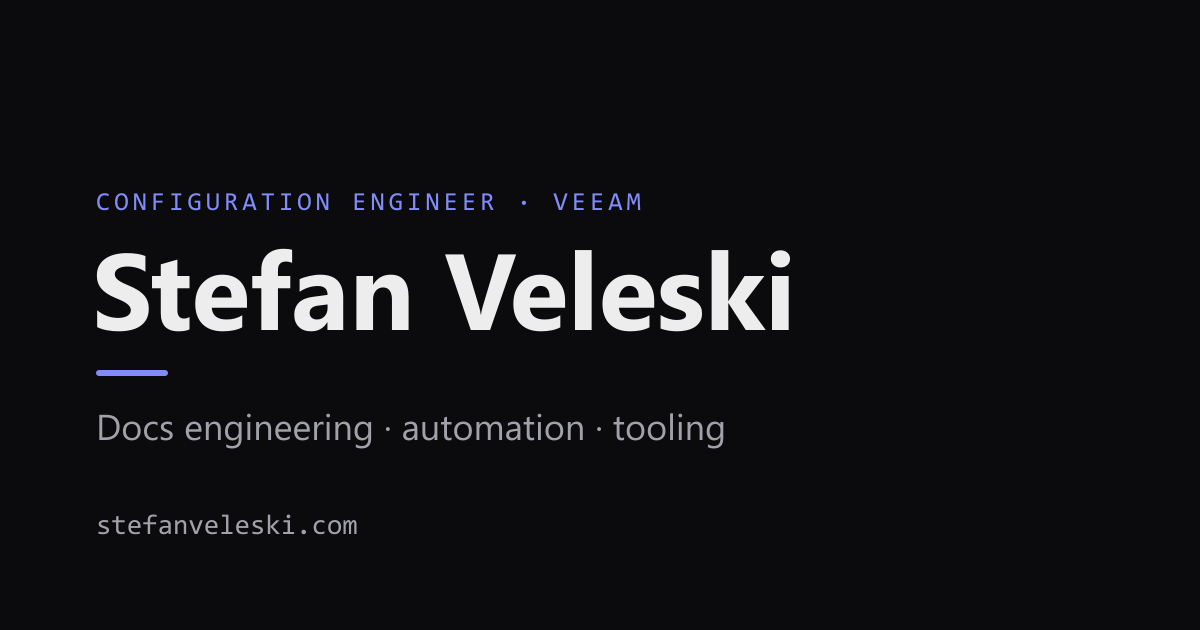
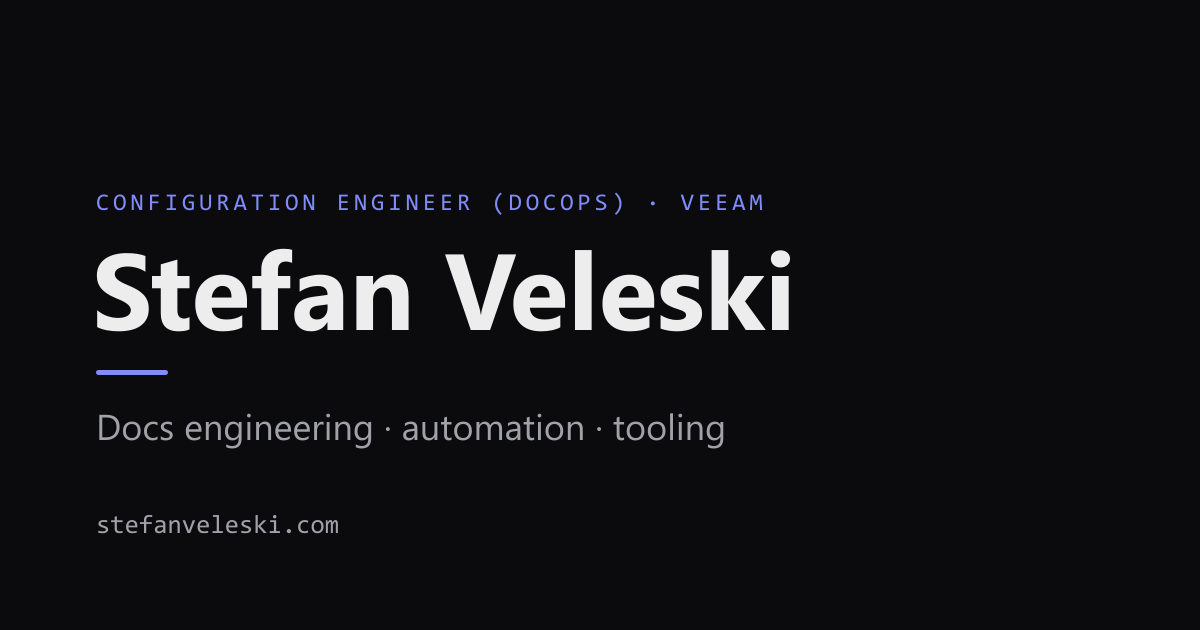
Show title as "Configuration Engineer (DocOps)"
Update site role, current experience entry, intro, README, and the
social-share image. Note the canonical form in CLAUDE.md.

Changed region(s): [[0.0925, 0.3016, 0.6475, 0.3317], [0.0925, 0.8143, 0.3083, 0.8444]]

diff --git a/src/data/site.ts b/src/data/site.ts
@@ -6,12 +6,12 @@ export interface SocialLink {
 
 export const site = {
   name: 'Stefan Veleski',
-  role: 'Configuration Engineer',
-  roleLong: 'Configuration Engineer & Technical Writer',
+  role: 'Configuration Engineer (DocOps)',
+  roleLong: 'Configuration Engineer (DocOps) & Technical Writer',
   tagline:
     'I build the tooling, automation, and tests behind great technical documentation.',
   intro:
-    'Configuration Engineer at Veeam in Prague. I climbed the technical-writing ladder from junior to senior, then moved into docs engineering — automating documentation workflows, writing autotests, and maintaining a custom TypeScript editor for the writing team.',
+    'Configuration Engineer (DocOps) at Veeam in Prague. I climbed the technical-writing ladder from junior to senior, then moved into docs engineering — automating documentation workflows, writing autotests, and maintaining a custom TypeScript editor for the writing team.',
   location: 'Prague, Czechia',
   email: 'stefan_veleski@outlook.com',
   url: 'https://stefanveleski.com',

diff --git a/src/data/experience.ts b/src/data/experience.ts
@@ -13,7 +13,7 @@ export interface Role {
 // roles are at Veeam (Prague).
 export const roles: Role[] = [
   {
-    title: 'Configuration Engineer',
+    title: 'Configuration Engineer (DocOps)',
     org: 'Veeam',
     location: 'Prague, Czechia',
     period: 'May 2026 — Present',

diff --git a/CLAUDE.md b/CLAUDE.md
@@ -14,7 +14,9 @@ docs-engineering identity and keeps his academic research as a secondary archive
 
 ## Who Stefan is (keep site copy accurate to this)
 
-- **Configuration Engineer at Veeam** (Prague) — current role. Automates documentation
+- **Configuration Engineer at Veeam** (Prague) — current role. Shown publicly as
+  **"Configuration Engineer (DocOps)"**: official title first, clarifier in parentheses; use
+  this exact form on the site, CV, and LinkedIn. Automates documentation
   workflows, writes autotests, and maintains a custom **TypeScript** editor for the writing
   team.
 - Climbed the Veeam technical-writing ladder: Junior → Technical Writer → Experienced →

diff --git a/README.md b/README.md
@@ -1,6 +1,6 @@
 # stefanveleski.com
 
-Personal website of **Stefan Veleski** — Configuration Engineer & Technical Writer.
+Personal website of **Stefan Veleski** — Configuration Engineer (DocOps) & Technical Writer.
 
 Built with [Astro](https://astro.build), TypeScript, and Tailwind CSS v4. Deployed on
 Netlify.
